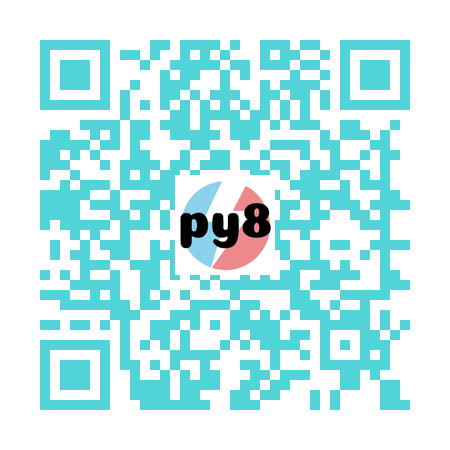
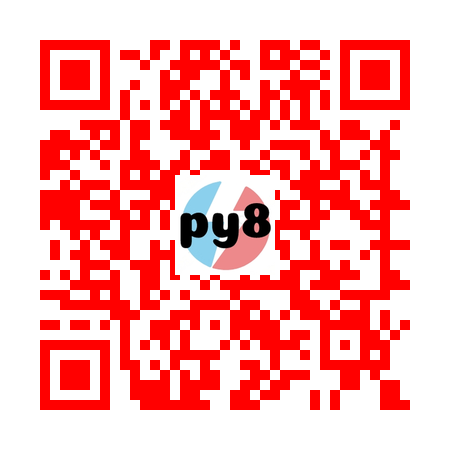
bs

diff --git a/bs_/lesson1.py b/bs_/lesson1.py
@@ -1,169 +1,77 @@
 from bs4 import BeautifulSoup
 
-html='''<div class="leftpanel">
-															<div class="story-details">
-									<div class="main-story">
-										<div class="articles">
-											<div class="full-details">
-												<div class="editor-share">
-																										<div class="editor editor-date-logo  editor-details-new-change" id="storycenterbyline">
-														<div>
-															By: <a rel="noamphtml" href="/agency/tech-desk/">Tech Desk</a>		<!-- Function to check and load script when jQuery is ready -->
-	<script>
-	function checkAndLoadScript() {
-		if (window.jQuery) {
-		// jQuery is loaded, include your script
-		jQuery(document).ready(function($) {
-			$(".bulletProj").hover(function() {
-			var dividshow = '#div_'+$(this).attr('id');
-			$(this).siblings("#div_written_by_parent").html($(dividshow).html()).show();
-			});
+html=''' <!DOCTYPE html>
+<html lang="en">
+  <head>
+    <meta charset="utf-8" />
+    <meta name="viewport" content="width=device-width, initial-scale=1" />
+    <title>Bootstrap demo</title>
+    <link
+      href="https://cdn.jsdelivr.net/npm/bootstrap@5.3.2/dist/css/bootstrap.min.css"
+      rel="stylesheet"
+      integrity="sha384-T3c6CoIi6uLrA9TneNEoa7RxnatzjcDSCmG1MXxSR1GAsXEV/Dwwykc2MPK8M2HN"
+      crossorigin="anonymous"
+    />
+  </head>
 
-			$(".editor-details, .editor").hover(function() {}, function() {
-			var dividhide = '#' + $(this).attr('id');
-			$("#div_written_by_parent").html("");
-			$("#div_written_by_parent").hide();
-			});
-		});
-		} else {
-		// jQuery is not loaded, check again after 0.2 seconds
-		setTimeout(checkAndLoadScript, 200);
-		}
-	}
+  <body>
+    <h1 class="display-3 text-center">Exercise</h1>
 
-	// Initial call to the function
-	checkAndLoadScript();
-	</script>
-
-		<br>Bengaluru | <span itemprop="dateModified" content="2023-12-19T13:49:12+05:30">December 19, 2023 13:49 IST</span>														</div>
-														<div class="brand-logo">
-																<img src="https://indianexpress.com/wp-content/themes/indianexpress/images/icon-newsguard.svg" width="120px" height="18px" alt="Newsguard">
-														</div>
-													</div>
-													
-<div class="ie-ie-share">
-
-			<div class="G-folow-button">
-			<a href="https://news.google.com/publications/CAAqBwgKMN670wQw_PV-?hl=en-IN&amp;gl=IN&amp;ceid=IN:en" title="Follow Us on Google News" target="_blank" rel="nofollow">
-				<figure class="follow-img">
-					<img width="24" height="19" loading="lazy" src="https://indianexpress.com/wp-content/themes/indianexpress/images/google-news-icon.png" alt="">
-				</figure>
-			</a>
-            <a href="https://news.google.com/publications/CAAqBwgKMN670wQw_PV-?hl=en-IN&amp;gl=IN&amp;ceid=IN:en" title="Follow Us on Google News" target="_blank" rel="nofollow">
-				<span class="g-follow">
-					Follow Us
-				</span>
-			</a>
+    <div class="container-fluid">
+      <div class="row">
+        <div class="col-12 col-md-3 col-lg-4 col-sm-6 mt-5">
+          <p class="lead" id ='p-3'>
+            Lorem ipsum dolor sit amet consectetur adipisicing elit. Nulla
+            temporibus dolorem nostrum! Nulla a atque recusandae quod commodi
+            provident Lorem ipsum dolor sit amet.
+          </p>
         </div>
-		<ul class="ie-share__icons">
-			<li class="ss-icon">
-				<a href="https://api.whatsapp.com//send?text=Tech%20News%20Today%3A%20Apple%20Watch%20ban%2C%20Poco%20M6%20launch%20announcement%2C%20and%20more : https%3A%2F%2Findianexpress.com%2Farticle%2Ftechnology%2Ftech-news-today-19-december-2023-apple-watch-ban-poco-m6-lava-storm-5g-9074248%2F%3Futm_source%3Dwhatsapp%26utm_medium%3Dsocial%26utm_campaign%3DWhatsappShare" target="_blank" rel="nofollow" class="a-share-btn ie_ga_event_tracking" title="Whatsapp" data-social-sharing-whatsapp="" data-ie-event-category="whatsapp_top" data-ie-event-action="Desktop" data-ie-event-label="https://indianexpress.com/article/technology/tech-news-today-19-december-2023-apple-watch-ban-poco-m6-lava-storm-5g-9074248/">
-					<i class="wapp"><img src="https://indianexpress.com/wp-content/themes/indianexpress/images/icon-whatsapp.svg" height="24" width="26" alt=""></i>
-				</a>
-			</li>
-			<li class="ss-icon">
-				<a href="https://www.facebook.com/sharer.php?u=https%3A%2F%2Findianexpress.com%2Farticle%2Ftechnology%2Ftech-news-today-19-december-2023-apple-watch-ban-poco-m6-lava-storm-5g-9074248%2F" target="_blank" rel="nofollow" class="a-share-btn ie_ga_event_tracking" title="Facebook" data-social-sharing-facebook="" data-ie-event-category="facebook_top" data-ie-event-action="Desktop" data-ie-event-label="https://indianexpress.com/article/technology/tech-news-today-19-december-2023-apple-watch-ban-poco-m6-lava-storm-5g-9074248/">
-					<i class="fb"><img src="https://indianexpress.com/wp-content/themes/indianexpress/images/icon-fb.svg" alt="" height="26" width="14"></i>
-				</a>
-			</li>
-			<li class="ss-icon">
-				<a href="https://twitter.com/share?url=https%3A%2F%2Findianexpress.com%2Farticle%2Ftechnology%2Ftech-news-today-19-december-2023-apple-watch-ban-poco-m6-lava-storm-5g-9074248%2F&amp;text=Tech%20News%20Today%3A%20Apple%20Watch%20ban%2C%20Poco%20M6%20launch%20announcement%2C%20and%20more&amp;via=IndianExpress" target="_blank" rel="nofollow" class="a-share-btn ie_ga_event_tracking" title="Twitter" data-social-sharing-twitter="" data-ie-event-category="twitter_top" data-ie-event-action="Desktop" data-ie-event-label="https://indianexpress.com/article/technology/tech-news-today-19-december-2023-apple-watch-ban-poco-m6-lava-storm-5g-9074248/">
-					<i class="twit"><img src="https://indianexpress.com/wp-content/themes/indianexpress/images/x-story.svg" alt="" height="24" width="26"></i>
-				</a>
-			</li>
-			<li class="comments">
-				<a id="nuc-comment-btn" rel="nofollow noopener noreferrer" data-social-sharing-comment="" class="a-share-btn" href="javascript:void(0)" title="Click to Comments" style="visibility: visible;">
-				<div class="comments-widget"><div class="total-count-num"></div></div>
-				</a>
-			</li>
-		</ul>
-	</div>
-												</div>
-												<span class="custom-caption"><img src="https://images.indianexpress.com/2023/12/lava-storm-5g.jpg?w=640" alt="Lava Storm 5G" width="640" height="360"><div id="inhouseimg" class="imghalder" style="position: absolute; left: 0px; right: 0px; top: 310px; max-height: 50px; overflow: hidden; width: 640px;"><div id="gpt_ad_IE_IMAGE_OVERLAY" class="aside visible-md visible-lg io-code-box" style="margin: 0px auto; text-align: center;"></div></div><span class="ie-custom-caption">Lava Storm 5G (Image credit: Lava)</span></span><div id="pcl-full-content" class="story_details"><p>Tech News Today in India: Apple will cease the sale of the Series 9 and the Ultra 2 smartwatches from December 26 in the US to comply with the ITC ruling and Poco just confirmed the launch date of its next budget 5G smartphone — Poco M6.</p><ev-engagement group-name="contentLogin"></ev-engagement><ev-engagement group-name="myNotification"></ev-engagement><div class="ev-meter-content ie-premium-content-block">
-<ol class="ie-top-10-points-block-variation has-also-read"><li><span class="numbered_list">01</span><h3 class="faq_title">Apple to halt select smartwatch sales in US</h3><div class="faq_description "><p class="no_first_intro_para">Apple will soon halt the sale of the Series 9 and the Ultra 2 smartwatches in the US, starting December 26. Similarly, it is also expected to be working on a software update for these smartwatches to make them comply with the ITC ruling by tweaking the blood oxygen saturation monitoring algorithm.</p>
-<p><a href="https://twitter.com/markgurman/status/1736894248535159047" class="" rel="nofollow, noopener" target="_blank">https://twitter.com/markgurman/status/1736894248535159047</a></p>
-</div></li><li><span class="numbered_list">02</span><h3 class="faq_title">Poco M6 5G to launch on December 22</h3><div class="faq_description "><p>Poco just launched the budget C65 5G smartphone in India, and the company is now gearing up for the launch of yet another mid-range 5G smartphone -- Poco M6, is likely to be powered by a mid-range processor and the smartphone is also confirmed to include a dual-camera setup with a 50 MP primary shooter.</p>
-<p><a href="https://twitter.com/IndiaPOCO/status/1736997345676734788" class="" rel="nofollow, noopener" target="_blank">https://twitter.com/IndiaPOCO/status/1736997345676734788</a></p>
-</div></li><li><span class="numbered_list">03</span><h3 class="faq_title">Xiaomi HyperOS global update</h3><div class="faq_description "><p>Xiaomi has revealed the name of the first set of devices eligible for the HyperOS update, which includes the Xiaomi 13 Ultra, Xiaomi 13 Pro, Xiaomi 13, Xiaomi 13T, Redmi Note 12, Redmi Note 12S, and the Xiaomi Pad 6. The company has also confirmed that the Poco F5 will be one of the first smartphones from the brand to receive an Android 14-based HyperOS update.</p>
-<p><a href="https://twitter.com/XiaomiHyperOS_/status/1736665589622739273" class="" rel="nofollow, noopener" target="_blank">https://twitter.com/XiaomiHyperOS_/status/1736665589622739273</a></p>
-</div></li><li><span class="numbered_list">04</span><h3 class="faq_title">Lava Storm 5G to launch on December 21</h3><div class="faq_description "><p>Lava is also gearing up to launch another 5G smartphone -- Lava Storm 5G. According to the official social media posts, the smartphone will have a dual-camera setup on the back. The Lava Storm 5G is also confirmed to retain a 3.5mm headphone jack and the smartphone is powered by the Mediatek 6080 SoC.</p>
-<p><a href="https://twitter.com/LavaMobile/status/1737020299831308758" class="" rel="nofollow, noopener" target="_blank">https://twitter.com/LavaMobile/status/1737020299831308758</a></p>
-</div></li></ol>
-<p></p><img loading="lazy" decoding="async" src="https://data.indianexpress.com/election2019/track_1x1.jpg" data-lazy-src="https://data.indianexpress.com/election2019/track_1x1.jpg" alt="" width="1px" height="1px" style="display:none;"><p></p></div>												</div>
-												<div class="copyright">© IE Online Media Services Pvt Ltd</div>																								<div>
-																									</div>
-												<div id="story_content_parts" style="display:none">
-												<div id="part1">
-																								</div>
-												</div>
-												<div class="ie-first-publish">First published on: <span>19-12-2023 at 13:49 IST </span></div>													<div class="storytags ev-meter-content">
-														<ul>
-															<li>Tags:</li>
-																															<li>
-																	<a class="ie_ga_event_tracking" href="https://indianexpress.com/about/tech-news/" data-ie-event-category="Next_Story_Tag" data-ie-event-action="Desktop" data-ie-event-label="https://indianexpress.com/about/tech-news/">tech news</a>
-																</li>
-																														</ul>
-														</div>
-																																							<div class="abbott-disc">
-																											</div>
-												<div class="more-from">
-													<script type="text/javascript">var s_post_id ="9074248";</script><script type="text/javascript">var ceVid ="2";</script><script>
-				setTimeout(function() {
-					let commentJsAdded = false;
-					const t = ["mouseover", "keydown", "touchmove", "touchstart", "scroll"];
-					t.forEach(function(t) {
-						window.addEventListener(t,
-							function() {
-								if ( ! commentJsAdded ) {
-									let list = ["https://media-central.indianexpress.com/static/comment-engine/editor/assets/js/editor.js?ver=191223", "https://media-central.indianexpress.com/static/comment-engine/assets/js/neocomment.js?ver=191223"];
-									list.map(function(item) {
-										var js, fjs = document.getElementsByTagName("script")[0];
-										if (!document.getElementById("id_story_show_comments")) return;
-										js = document.createElement("script");
-										js.async = 1;
-										js.src = item;
-										fjs.parentNode.insertBefore(js, fjs);
-									})
-									commentJsAdded = true;
-								} else {
-									this.removeEventListener( t, arguments.callee );
-								}
-							}, {
-							passive: true
-						})
-					});
-				}, 1000);
-				</script>		<div class="ie-network-commenting alignleft">
-			<div class="comments-widget">
-				<div class="inner-wrapper">
-					<div class="row clearFix">
-						<div class="total-count" style="display: none;">Be the first one to comment</div>
-						<div class="latest-comments" style="display: none;">Latest Comment</div>
-					</div>
-					<div class="row clearFix">
-						<div class="comment-box clearFix" id="id_latest_comment_card"></div>
-					</div>
-					<div class="row">
-						<div class="btn-box clearFix">
-							<div id="id_story_write_comments" class="story_comment_button" style="display: inline-block; background-color: rgb(255, 0, 0);">Post Comment</div>
-							<div id="id_story_show_comments" class="story_comment_button" style="display: none; background-color: rgb(255, 0, 0);">Read Comments <sup>0</sup></div>
-						</div>
-						<div id="id_commenting" class="c-commenting" style="display: block;"></div>
-					</div>
-				</div>
-			</div>
-		</div>
-		<div class="l-container"><div class="o-taboola-story"><div id="taboola-below-content"></div></div></div>												</div>
-											</div>
-										</div>
-									</div>
-								</div>
-							</div>'''
+        <div class="col-12 col-lg-3 col-md-4 col-sm-6 mt-5">
+
+          <h1>this is heading <span> <b>ok</b></span></h1>
+          <p class="lead">
+            Lorem, ipsum dolor sit amet consectetur adipisicing elit. Molestias
+            iure repellat non obcaecati tempore adipisci facere corrupti
+            accusantium molestiae reprehenderit inventore, laboriosam cum
+            provident eveniet maiores neque, natus magni illum.
+          </p>
+        </div>
+        <div class="col-12 col-lg-3 col-md-4 col-sm-6 mt-5">
+          <p class="lead">
+            Lorem, ipsum dolor sit amet consectetur adipisicing elit. Molestias
+            iure repellat non obcaecati tempore adipisci facere corrupti
+            accusantium molestiae reprehenderit inventore, laboriosam cum
+            provident eveniet maiores neque, natus magni illum.
+          </p>
+        </div>
+
+        <div class="col-12 col-md-3 col-lg-4 col-sm-6 mt-5">
+          <p class="lead">
+            Lorem, ipsum dolor sit amet consectetur adipisicing elit. Molestias
+            iure repellat non obcaecati tempore adipisci facere corrupti
+            accusantium molestiae reprehenderit inventore, laboriosam cum
+            provident eveniet maiores neque, natus magni illum.
+          </p>
+        </div>
+      </div>
+    </div>
+
+    <script
+      src="https://cdn.jsdelivr.net/npm/bootstrap@5.3.2/dist/js/bootstrap.bundle.min.js"
+      integrity="sha384-C6RzsynM9kWDrMNeT87bh95OGNyZPhcTNXj1NW7RuBCsyN/o0jlpcV8Qyq46cDfL"
+      crossorigin="anonymous"
+    ></script>
+  </body>
+</html>
+'''
 
 doc_html=BeautifulSoup(html,'html.parser')
-print(doc_html)
+# print(doc_html)
 
-formated_html=doc_html.prettify()
-print(formated_html)
+# formated_html=doc_html.prettify()
+# print(formated_html)
 
-print(doc_html.span)
+# print(doc_html.span)
+h1List=doc_html.b
+# singleh1=h1List[1]
+print(h1List.string)

diff --git a/bs_/lesson2.py b/bs_/lesson2.py
@@ -1,0 +1,10 @@
+from bs4 import BeautifulSoup
+import requests
+
+qrl='https://www.cricbuzz.com/'
+html=requests.get(qrl).text
+# print(html)
+html_doc=BeautifulSoup(html,'html.parser')
+run=html_doc.find_all('div',{'class':'cb-col-50 cb-ovr-flo'})
+print(run[0].string)
+# <div class="cb-col-50 cb-ovr-flo" style="display:inline-block; width:100%">270-6 (48)</div>

diff --git a/qr_/lesson4.py b/qr_/lesson4.py
@@ -33,7 +33,7 @@ QRcode.make()
 
 # adding color to QR code
 QRimg = QRcode.make_image(
-	fill_color="#52D3D8", back_color="white").convert('RGB')
+	fill_color="red", back_color="white").convert('RGB')
 
 # set size of QR code
 pos = ((QRimg.size[0] - logo.size[0]) // 2,
